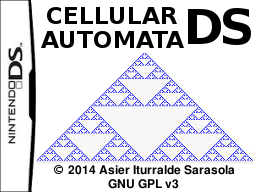
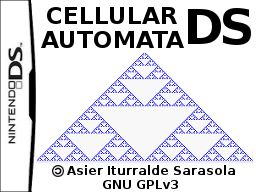
Update years and bump version for the first oficial release

Changed region(s): [[0.1875, 0.8438, 0.9375, 1.0]]

diff --git a/source/menus.cpp b/source/menus.cpp
@@ -94,7 +94,7 @@ int printCredits()
     printf("Cellular Automata DS\n");
     printf("%s\n", stringVersion.c_str());
     printf("\n");
-    printf("(c) 2012, 2013, 2014, 2015\n");
+    printf("2012-2017 GNU GPLv3\n");
     printf("Asier Iturralde Sarasola\n");
     printf("\n");
 

diff --git a/source/i18n.h b/source/i18n.h
@@ -7,7 +7,7 @@
 /*
  * Constant for the version number of the application
  */
-const std::string strVersionNumber = "0.10.5.0";
+const std::string strVersionNumber = "0.10.6.0";
 
 /*
  * The strings of text used in the app in the default language (english).
